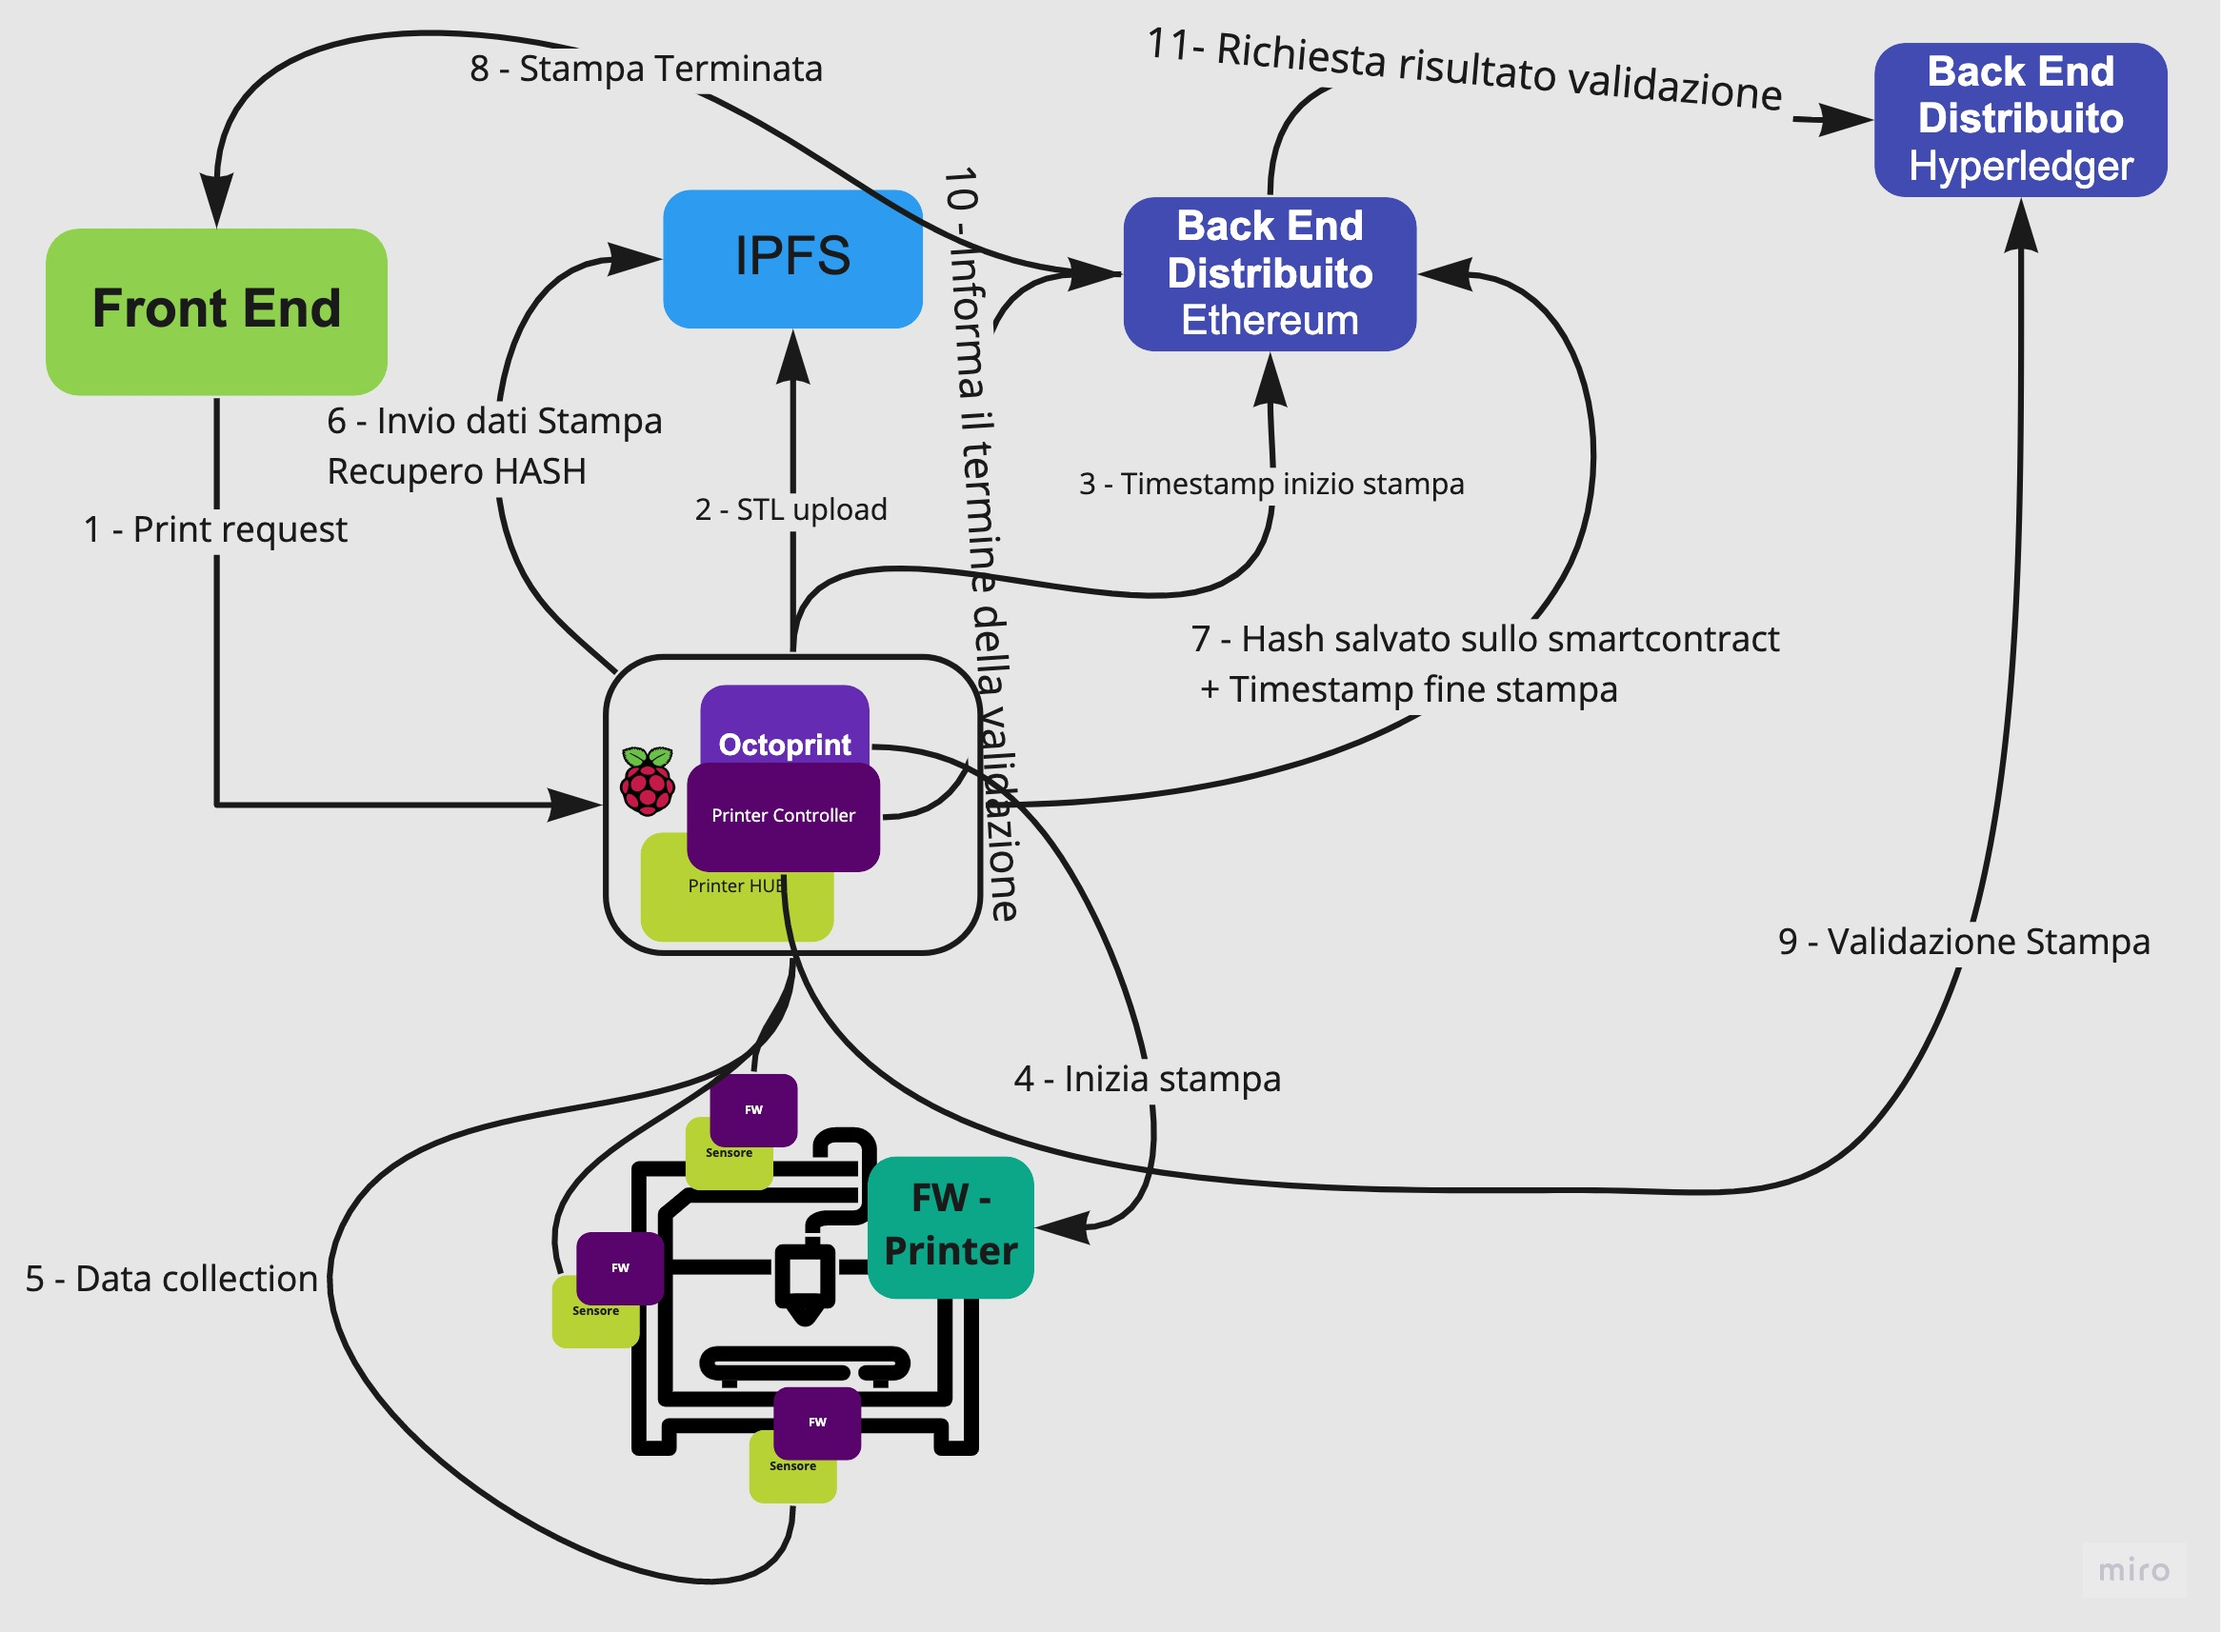
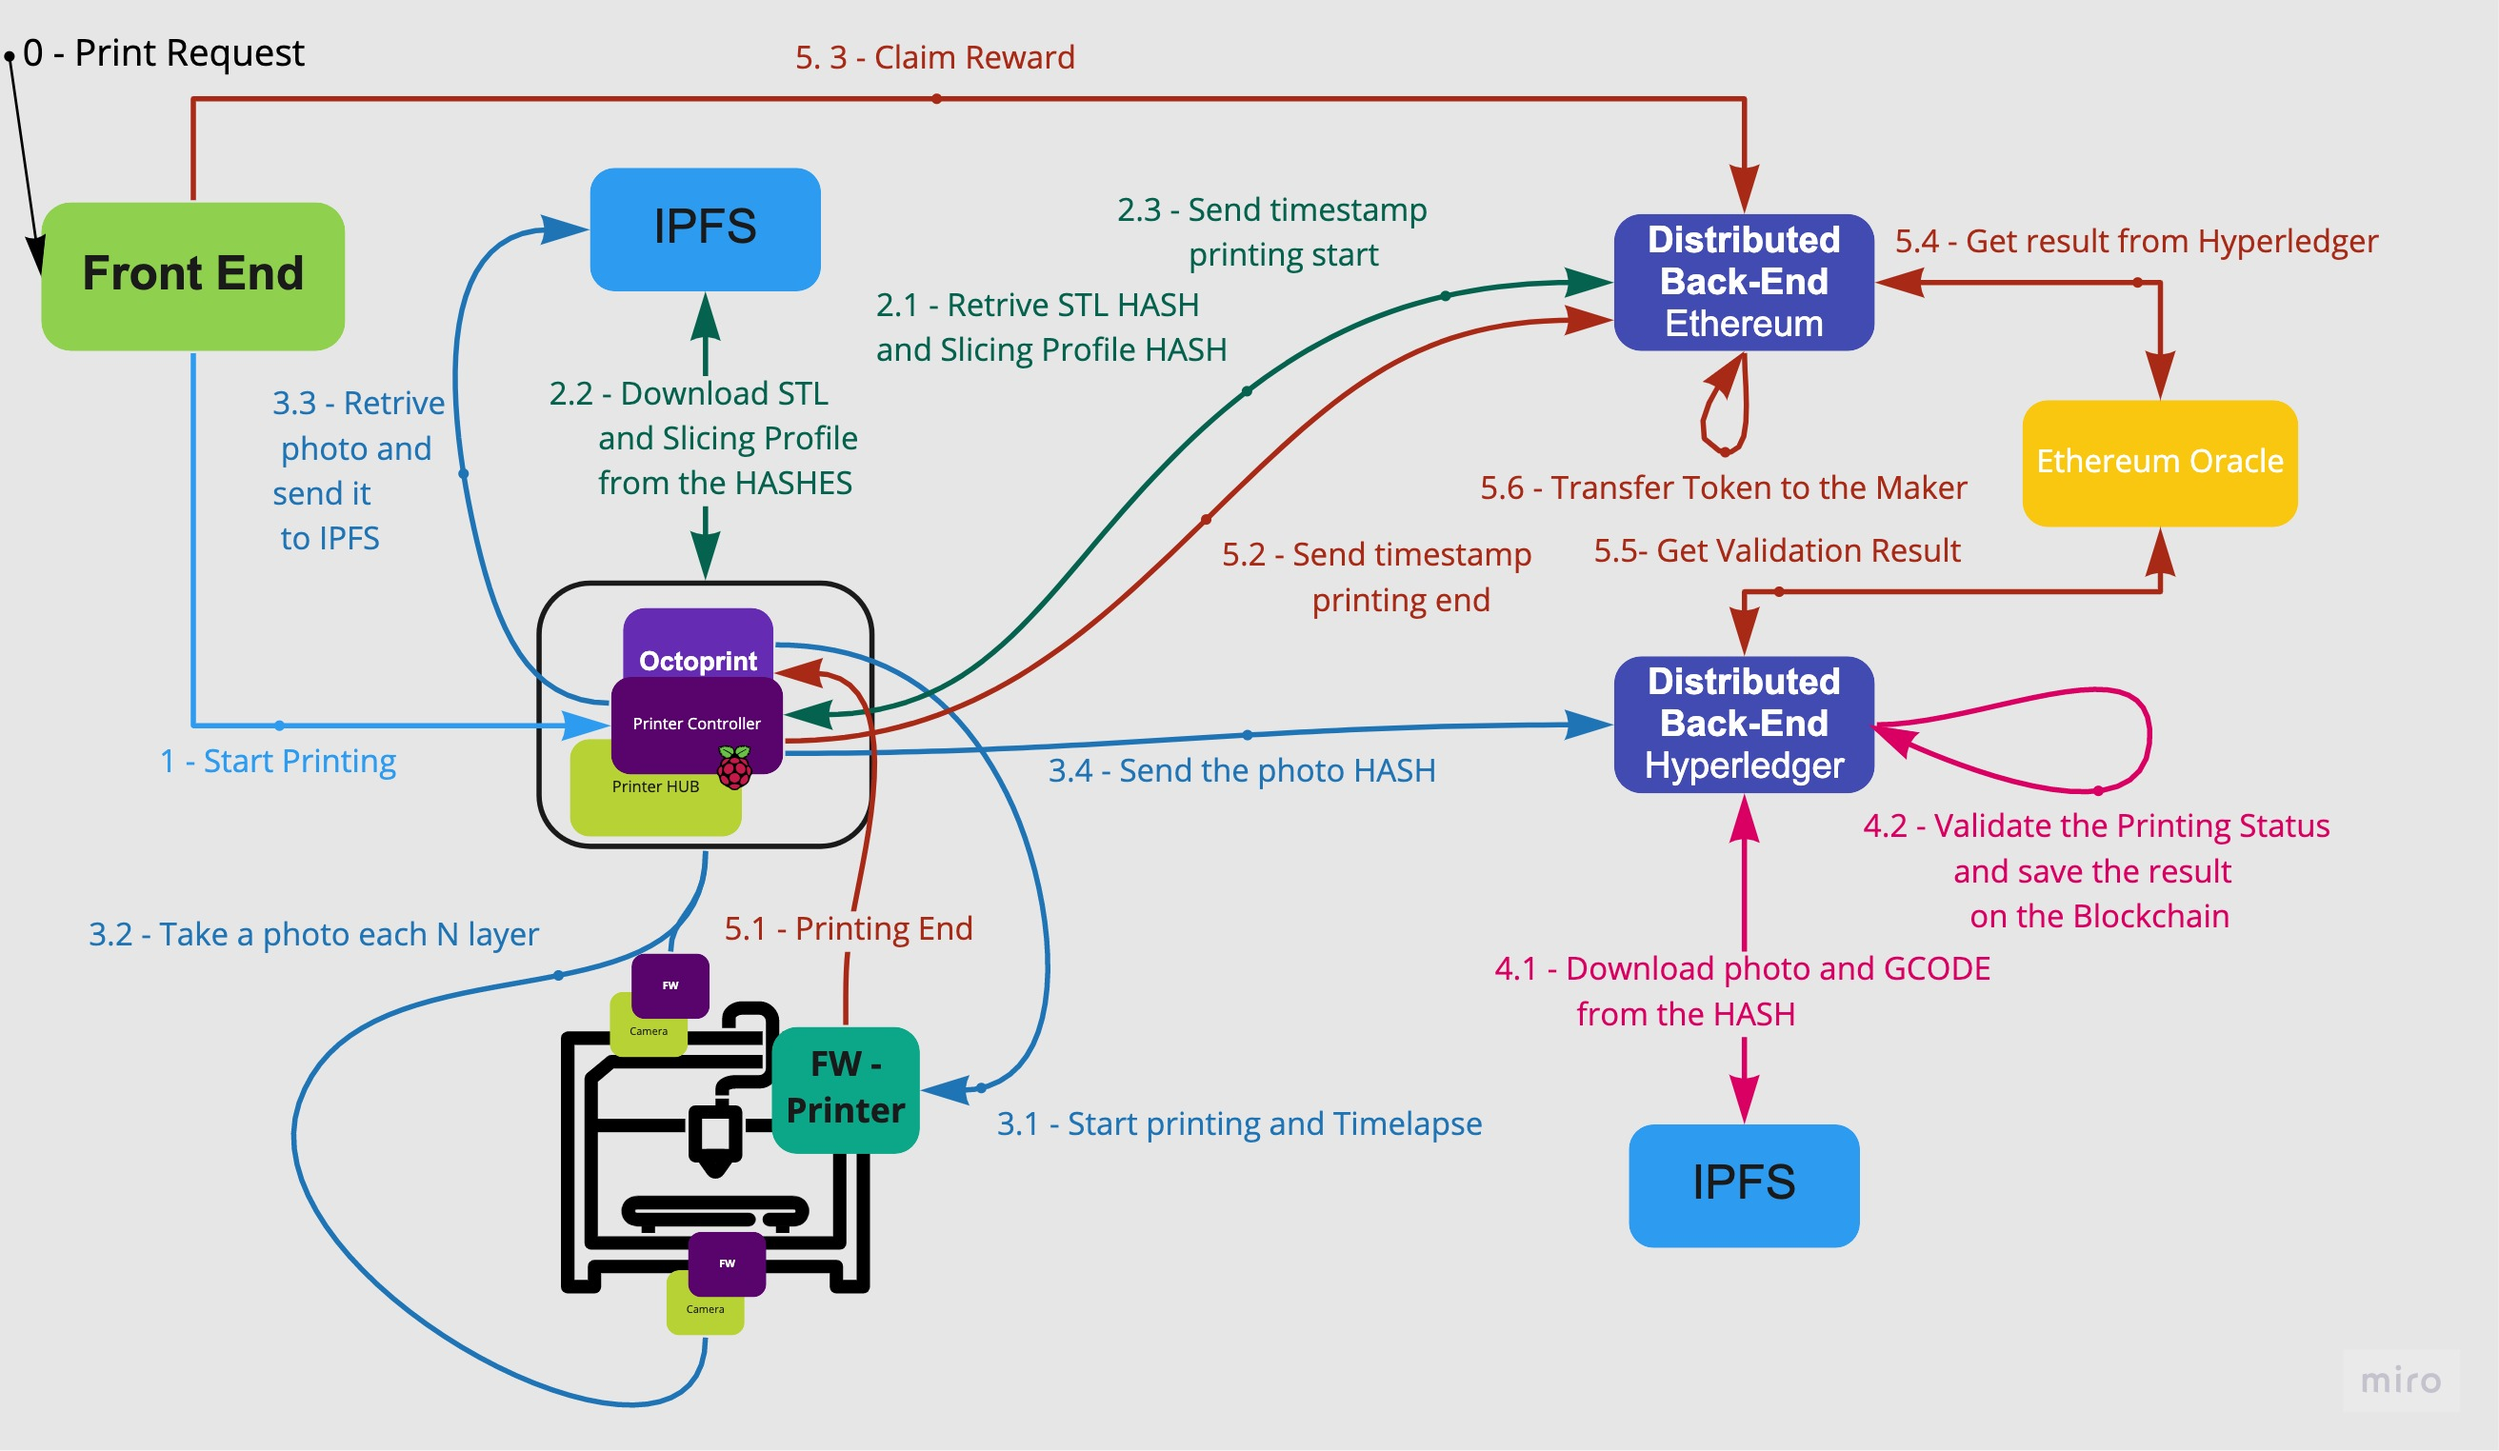
UPDATE README

Changed region(s): [[0.0, 0.0, 0.988, 0.9869], [0.0309, 0.771, 0.1544, 0.8018], [0.1235, 0.8327, 0.1852, 0.8944]]

diff --git a/README.md b/README.md
@@ -6,25 +6,73 @@ Air Factories 2.0 is a project funded by the Ministry of University and Research
 
 The final aim of the Air Factories 2.0 project is the implementation of an intelligent, decentralized, sustainable and resilient production chain that allows the rapid prototyping of new projects and guarantees the certifiability of the parts produced.
 
+## Project Goals
+
+L’obiettivo di questo progetto è stato quello di implementare metodologie, tecniche, algoritmi, sistemi hardware e software per costruire una Fabbrica Decentralizzata composta da stampanti 3D, liberamente messe a disposizione da utenti distribuiti sul territorio, e finalizzare dei prototipi funzionanti relativi alla piattaforma software ed ai componenti hardware.
+
 ## Project Introduction
+
+La piattaforma software realizzata è stata denominata Air Factories 2.0, essa è decentralizzata e basata su tecnologie Blockchain per la gestione del ciclo di vita della fabbrica, dalla prototipazione di nuovi prodotti alla produzione di massa.
 
 ![](/Users/antoniopipitone/Desktop/Air%20Factories%202.0/af2-design/IMG/README/1.jpg)
 
+La struttura di Air Factories 2.0 comprende
+
+- **Front-end**
+  
+  - Interfaccia grafica per gli utenti finali divisi in due categorie **Air Caller** e **Air Maker**
+  
+  - Sviluppata utilizzando react-native web
+
+- **Back-end Distribuito**
+  
+  - **Hyperldeger**
+    
+    - Si occupa dell'algoritmo per la verifica della qualità e validazione della stampa
+  
+  - **Ethereum**
+    
+    - Contiene tutta la logica della piattaforma Air Factories 2.0 a partire dall'iscrizione dell'utente, passando dalla prototipazione dei design proposti dagli **Air Caller**, all'algoritmo di scheduling degli ordini di stampa fino ad arrivare alla gestione del processo di stampa
+    
+    - Viene fatto uso delle librerie Web3 al fine di consentire la comunicazione tra browser e la blockchain Ethereum
+
+- **Printer Manager**
+  
+  - **Printer Hub**
+    
+    - Parte Harwdare del Printer Manager composta da una Raspberry PI 3 Modello A e la Raspi Camera V2
+  
+  - **Printer Controller**
+    
+    - Parte Software del Pringer Manager, contiene il server che verrà contattato dal Maker per far partire il processo di stampa che da inizio alla *Proof of Print* (PoP)
+
 ## User
-
-- Air Caller: Are those who require the production of a certain number of finished pieces by the distributed factory, they can also develop new projects to be produced in the distributed factory and use it for the prototyping of the first pieces;
-
-- Air Makers: they can act as validators of the projects in the prototyping phase of the product, as producers of finished pieces and as an Air Caller;
 
 ![](/Users/antoniopipitone/Desktop/Air%20Factories%202.0/af2-design/IMG/README/2.jpg)
 
-## Front-End
+- ### Air Caller
+  
+  - Are those who require the production of a certain number of finished pieces by the distributed factory, they can also develop new projects to be produced in the distributed factory and use it for the prototyping of the first pieces;
 
-Is a website made using React. It can interact with the Ethereum SmartContract using the web3 libraries. 
+- ### Air Makers
+  
+  - they can act as validators of the projects in the prototyping phase of the product, as producers of finished pieces and as an Air Caller;
+
+## [Front-End](Front-End.md)
+
+Is a website made using React-native web. It can interact with the Ethereum SmartContract using the web3 libraries. 
 
 ## Distributed Back-End
 
-The Distributed Back-End è realizzato facendo ricorso a smartcontract di Ethereum e Chaincode per blockchain creata tramite Hyperledger Fabric
+La piattaforma software Air Factories 2.0 è totalmente autonoma e decentralizzata e sostituisce gli Air Admin.
+
+Il termine “decentralizzato” è inteso nell’accezione tipica delle tecnologie Blockchain, pertanto, essendo la piattaforma Air Factories 2.0 in esecuzione sulla Blockchain, essa è totalmente autonoma e non controllata da agenti umani.
+
+In particolare, è stato sfruttato il concetto di Smart Contract, ovvero un programma software in esecuzione sulla Blockchain, alla cui esecuzione nessuno può apportare delle modifiche, e che si comporta sempre nello stesso modo, e di cui, dunque, tutti possono fidarsi.
+
+The Distributed Back-End è realizzato facendo ricorso a Smart Contract di Ethereum e Chaincode per Blockchain creata tramite Hyperledger Fabric.
+
+Il termine Chaincode è paragonabile a Smart Contract in blockchain Hyperledger.
 
 ![](/Users/antoniopipitone/Desktop/Air%20Factories%202.0/af2-design/IMG/README/3.jpg)
 
@@ -40,7 +88,7 @@ Lo SmartContract di Air Factories 2.0 gestisce:
 
 2. Il token di Air Factories 2.0
 
-3. Il sistema di voting dei prototipi
+3. L'algoritmo di voting per la prototipazione
 
 4. L'algoritmo di scheduling per la ripartizione dei pezzi di un ordine fra i Maker della piattaforma
 
@@ -50,9 +98,9 @@ Lo SmartContract di Air Factories 2.0 gestisce:
 
 ## [Print Manager](Printer Manager.md)
 
-![](/Users/antoniopipitone/Desktop/Air%20Factories%202.0/af2-design/IMG/README/4.jpg)
-
 Il Printer Manager è composto da una parte Software chiamata Printer Controller e una parte Hardware chiamata Printer HUB.
+
+![](/Users/antoniopipitone/Desktop/Air%20Factories%202.0/af2-design/IMG/README/4.jpg)
 
 ### Printer HUB
 
@@ -64,16 +112,110 @@ Il Printer Controller è la logica del nostro Printer Manager, esso contiene un 
 
 Il server sarà in grado di comunicare con lo SmartContract di Air Factories tramite le librerie Web3 e contattare la blockchain creata con Hyperledger Fabric tramite delle chiamate REST.
 
+Per poter comunicare in remoto con il Firmware della stampante il Controller utilizza OctoPrint e la libreria octorest di python.
+
 ### Proof of Print (PoP)
 
 La Proof of Print è il processo tramite il quale Air Factories 2.0 controlla che un Maker abbia effettivamente stampato un modello richiesto da un Caller e che la qualità di quest'ultimo soddisfi quella richiesta.
 
 ![](/Users/antoniopipitone/Desktop/Air%20Factories%202.0/af2-design/IMG/README/5.jpg)
 
-Il processo mette in comunicazioni tutte le componenti del sistema Air Factories 2.0, il Front-End, lo SmartContract sulla Blockchain Ethereum, il ChainCode su blockchain Hyperledger e il Printer Manager e comprende le seguenti fasi:
+Il processo mette in comunicazioni tutte le componenti del sistema Air Factories 2.0: il Front-End, lo SmartContract sulla Blockchain Ethereum, il Chaincode su Blockchain Hyperledger e il Printer Manage.
+
+La *Proof of Print* comprende le seguenti fasi:
 
 #### Fase 0 - Ordine
 
-Per far sì che possa iniziare 
+Per far sì che possa iniziare la Proof of Print abbiamo una fase 0 nella quale un caller effettua un ordine specificando il numero di pezzi e la qualità della stampa (che deciderà il profilo di slicing da utilizzare).
+Dopo la fase di scheduling verranno selezionati i Maker che andranno ad effettaure le stampe del desing richiesto, nel front-end di questi arriverà quindi la notifica per iniziare a stampare. 
+I maker attualmente occupati o non disponibili alla stampa saranno scartati dalla fase di scheduling. 
+
+Il Caller effettuerà un pagamento preventivo trasferendo i token necessari per la stampa all'indirizzo dello SmartContract di Air Factories 2.0 .
+
+#### Fase 1 - Inizio Stampa
+
+Una volta apparsa la notifica sul front-end del Maker questo potrà avviare la fase di stampa automatica. 
+
+#### Fase 2 - Recupero STL e Profilo Slicing,  Inizio Stampa
+
+##### 2.1 - Recupero HASHES: STL and Slicing Profile
+
+Come prima cosa, a partire dall'ordine richiesto viene recuperato l'HASH dell'STL e l'HASH del profilo slicing per la stampante che viene utilizzata. 
+
+###### 2.2 - Download STL and Slicing Profile
+
+Tramite gli HASHES viene effettuato il download da IPFS dell'STL del design richiesto e del profilo dello slicing necessario per creare il GCODE
+
+Non viene mostrato nel diagramma, ma fondamentalmente viene creato il GCODE a partire dall'STL e dal profilo appena scaricati, il GCODE viene successivamente caricato su IPFS, servirà in un secondo momento nella fase di Validazione.
+
+##### 2.3 - Timestamp: Start Printing
+
+Viene salvato sullo smartcontract di Air Factories 2.0 il timestamp di inizio stampa del design
+
+#### Fase 3 - Raccolta Data
+
+Insieme alla fase 4, la fase 3 si ripete fintanto che la stampante non avrà finito la realizzazione del pezzo.
+
+##### 3.1 - Inizio Stampa
+
+Il Controller tramite octorest comunica con OctoPrint il quale contattando il FW della stampante fa partire il processo di stampa e avvia il servizio di timelapse
+
+###### 3.2 - Timelapse
+
+Vengono effettuate delle foto del processo di stampa ogni N Layer stampati. Queste vengono salvate sul controller.
+
+##### 3.3 - Salvataggio delle foto su IPFS
+
+Ogni foto scattata durante il processo di stampa viene salvata su IPFS e viene salvato l'HASH di quest'ultima sul controller.
+
+##### 3.4 - Invio Hash della foto ad Hyperledger
+
+L'hash della foto appena salvata su IPFS viene inviato (Insieme all'HASH del GCODE) ad Hyperledger tramite una chiamata REST.
+
+##### Attenzione
+
+Qualora durante la fase di stampa il processo dovesse interrompersi per un qualsiasi errore, verrà inviato il timestamp di fine stampa alla blockchain Ethereum considerando la stampa fallita. 
+
+#### Fase 4 - Verifica e Validazione Stampa
+
+##### 4.1 - Recupero Foto e GCODE
+
+Tramite gli HASH ricevuti vengono scaricati il GCODE creato dal controller e la foto allo strato N del processo di stampa del design 
+
+##### 4.2 - Verifica qualità Stampa
+
+Tramite l'algoritmo spiegato più nel dettaglio nella sezione di [Hyperledger](Hyperledger.md) viene verificato che il processo di stampa allo strato N stia soddisfacendo i canoni della qualità richiesti. Il risultato della verifica al suddetto strato viene salvato sulla blockchain Hyperledger
+
+#### Fase 5 - Fine Stampa
+
+##### 5.1 - Fine stampa del singolo pezzo
+
+Il FW della stampante setterà il proprio stato in "Operational" ad indicare che la stampa è terminata (In caso di errore/interruzione della stampa lo stato sarebbe "Canceling").
+
+##### 5.2 - Invio timestamp fine Stampa
+
+Il controller tramite OctoPrint verificherà che la stampa sia terminata e invierà allo Smart Contract di Air Factories 2.0 il timepstamp per indicare che la procedura di stampa è andata a buon fine e non sia stata interrotta. 
+
+##### Attenzione
+
+Prima di procedere con la fase 5.3 ossai il Claim del Reward, le precedenti fasi devono essere portate a termine per OGNI pezzo del design richiesto
+
+##### 5.3 - Claim Reward
+
+Una volta terminata la stampa di tutti i pezzi ordinati dal Caller l'utente può richiedere di ricevere i token previsti per la stampa. 
+
+Verrà dunque effettuata una chiamata al metodo dello Smart Contract per la richiesta del pagamento
+
+##### 5.4 - Oracolo Ethereum: Recupero risultato di validazione
+
+Per poter recuperare le informazioni contenute sulla Blockchain Hyperledger, Ethereum deve necessariamente passare da un Oracolo. L'Oracolo farà una chiamata GET sul Server REST connesso ad Hyperledger che recupererà i dati necessari affinché Ethereum possa decidere se pagare il Maker o meno
+
+##### 5.5 - Recupero risultato validazione da Hyperledger
+
+Per ogni pezzo stampato, sulla blockchain di Hyperledger ci sono i risultati della verifica di qualità della stampa effettuati su ogni strato, quindi ad ogni pezzo è associata una percentuale di qualità stampa: se tutti i pezzi hanno un valore maggiore del 70/80% (DA DECIDERE) allora l'ordine è considerato completato con successo.
+
+##### 5.6 - Pagamento Maker
+
+Una volta recuperato il risultato della stampa da Hyperledger, lo smartcontract a partire da questo deciderà se pagare il Maker che ha effettuato la stampa o rimborsare il Caller.
 
 ## 

diff --git a/Ethereum.md b/Ethereum.md
@@ -14,9 +14,7 @@
 
 ![](/Users/antoniopipitone/Desktop/Air%20Factories%202.0/af2-design/IMG/ETHEREUM/1.jpg)
 
-### Voting System
-
-#### Proposing Model
+### Voting System - Proposing new Model
 
 ### Scheduling
 

diff --git a/Front-End.md b/Front-End.md
@@ -1,0 +1,3 @@
+# [Front-End](https://github.com/Air-Factories-2-0/af2-frontend)
+
+Screen interfaccia grafica ed esempi iscrizione aggiunta stampante, fase di prototipazione, effetuare un ordine etc...

diff --git a/Printer Manager.md b/Printer Manager.md
@@ -7,3 +7,7 @@
 ### IPFS
 
 ### Octoprint
+
+### Flask Server
+
+#### OctoRest
